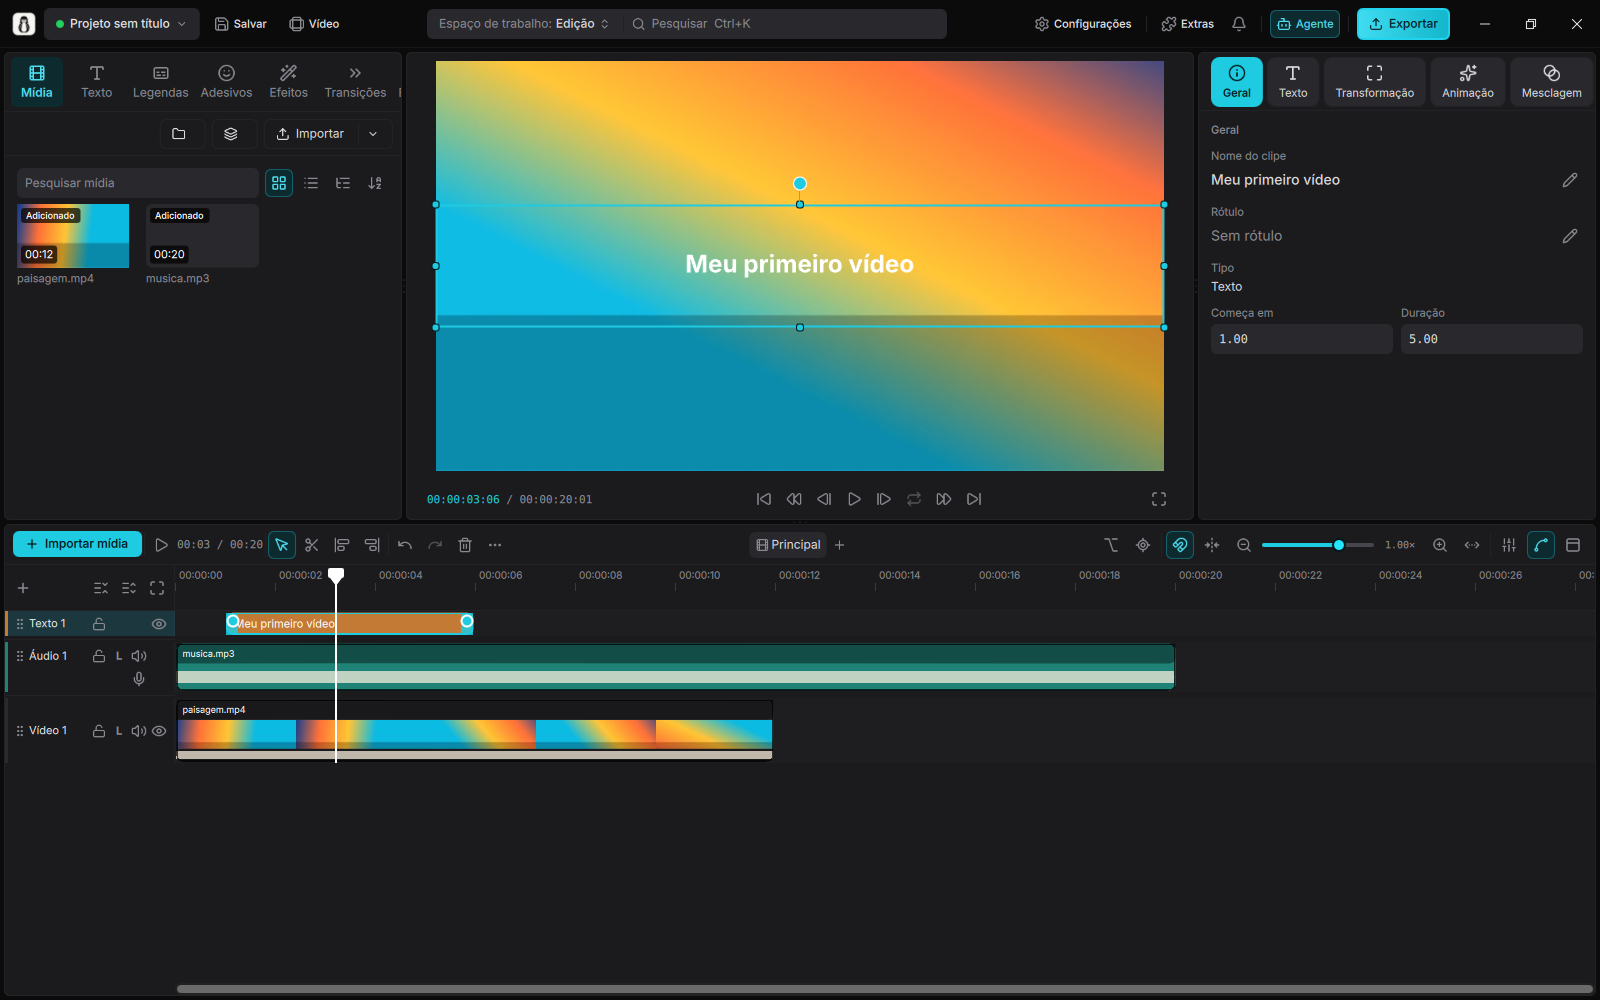
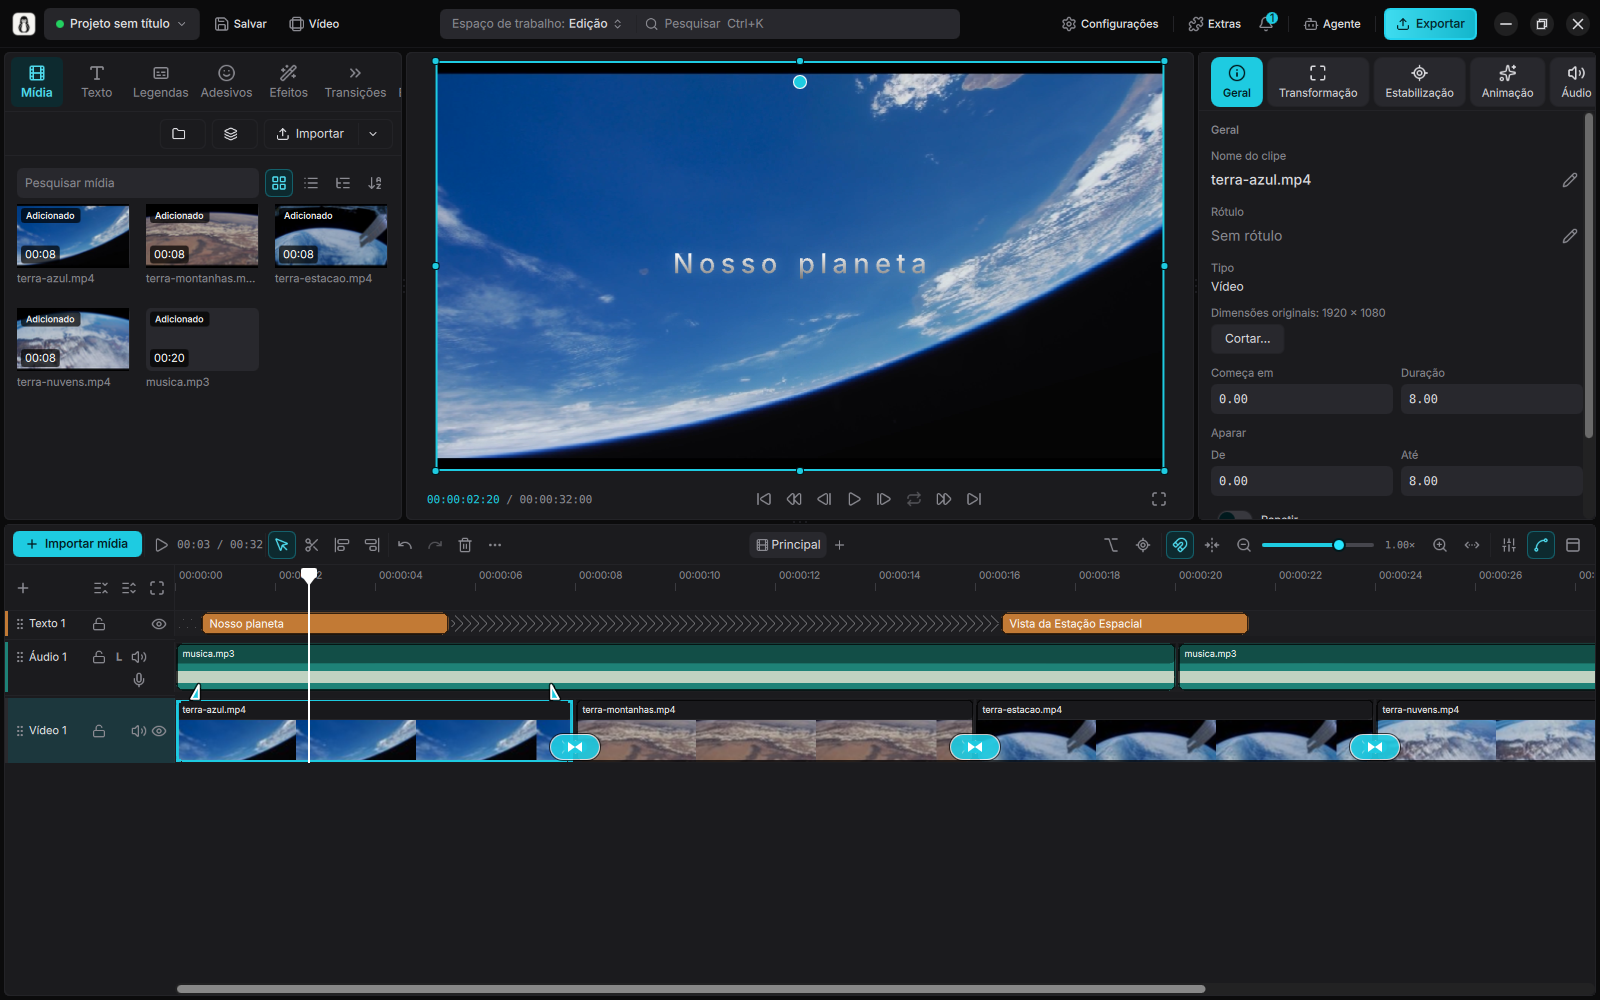
Site: prints com vídeo de verdade (Terra vista da Estação Espacial)
- Editor deitado e em pé montados no próprio Kipper com trechos do vídeo
  "4K Earth Views" da NASA (domínio público): quatro cenas com transição,
  título "Nosso planeta", texto de rodapé e música; em pé, recortes 9:16 do
  4K original com o módulo da estação e o título "A Terra vista lá de cima"
- Imagens do site em WebP (62 KB e 56 KB em vez de ~500 KB em PNG); og.png
  (prévia ao compartilhar o link) refeita com o print novo
- Rodapé: crédito das imagens de exemplo (NASA, domínio público), em
  português e inglês
- Menu de projetos: "Projeto sem título" em vez de "Untitled Project"

Claude-Session: https://claude.ai/code/session_01HcbRc84RiBCnPnbCUDt5sT

diff --git a/site/index.html b/site/index.html
@@ -56,7 +56,7 @@
         <p class="fineprint" id="cta-hint" data-i18n="hero.hint">Windows 10 e 11 · Fedora · Ubuntu · Matsu OS · qualquer Linux</p>
       </div>
       <figure class="hero-shot">
-        <img src="/assets/editor.png" width="1600" height="1000" alt="O editor do Kipper: mídia à esquerda, prévia no meio, ajustes à direita e a linha do tempo embaixo." loading="eager" fetchpriority="high">
+        <img src="/assets/editor.webp" width="1600" height="1000" alt="O editor do Kipper: mídia à esquerda, prévia no meio, ajustes à direita e a linha do tempo embaixo." loading="eager" fetchpriority="high">
       </figure>
     </section>
 
@@ -86,7 +86,7 @@
           </ul>
         </div>
         <figure class="feature-shot portrait">
-          <img src="/assets/portrait.png" width="1600" height="1000" alt="Kipper com um projeto em pé: a prévia vertical à direita e a linha do tempo à esquerda." loading="lazy">
+          <img src="/assets/portrait.webp" width="1600" height="1000" alt="Kipper com um projeto em pé: a prévia vertical à direita e a linha do tempo à esquerda." loading="lazy">
         </figure>
       </div>
 
@@ -224,6 +224,7 @@
       <span>Kipper</span>
     </div>
     <p data-i18n-html="footer.credits">Software livre sob a licença GPLv3. Baseado no <a href="https://github.com/CutWire-Studios/Drift" rel="noopener">Drift</a>, da CutWire Studios, com ideias de design do <a href="https://github.com/jub0t/Concat" rel="noopener">Concat</a>.</p>
+    <p class="fineprint" data-i18n-html="footer.media">Imagens de exemplo nos prints: <a href="https://images.nasa.gov/" rel="noopener">NASA</a> (domínio público).</p>
     <p><a href="https://github.com/kaikydev1-jpg/KIPPER" rel="noopener" data-i18n="footer.source">Código-fonte</a> · <a href="https://github.com/kaikydev1-jpg/KIPPER/issues" rel="noopener" data-i18n="footer.issues">Relatar um problema</a></p>
   </footer>
 

diff --git a/site/main.js b/site/main.js
@@ -71,6 +71,7 @@
     "dl.sums": "Every file and its SHA-256 checksum is on the <a href=\"https://github.com/kaikydev1-jpg/KIPPER/releases\">GitHub releases page</a>.",
     "dl.suggested": "For you",
     "footer.credits": "Free software under the GPLv3 licence. Based on <a href=\"https://github.com/CutWire-Studios/Drift\" rel=\"noopener\">Drift</a> by CutWire Studios, with design ideas from <a href=\"https://github.com/jub0t/Concat\" rel=\"noopener\">Concat</a>.",
+    "footer.media": "Sample footage in the screenshots: <a href=\"https://images.nasa.gov/\" rel=\"noopener\">NASA</a> (public domain).",
     "footer.source": "Source code",
     "footer.issues": "Report a problem"
   };

diff --git a/src/qml/components/shell/RecentProjectsPopup.qml b/src/qml/components/shell/RecentProjectsPopup.qml
@@ -108,7 +108,9 @@ Popup {
             popup: root
             modelData: ({})
             index: -1
-            title: EditorState.projectFile.projectName
+            // Kipper: "Untitled Project" é o nome guardado no arquivo; na tela, traduzido.
+            title: EditorState.projectFile.projectName === "Untitled Project"
+                   ? qsTr("Untitled Project") : EditorState.projectFile.projectName
             subtitle: root.currentSaved ? qsTr("All changes saved")
                                         : qsTr("Unsaved changes")
             tip: root.currentPath.length > 0 ? root.currentPath : ""
